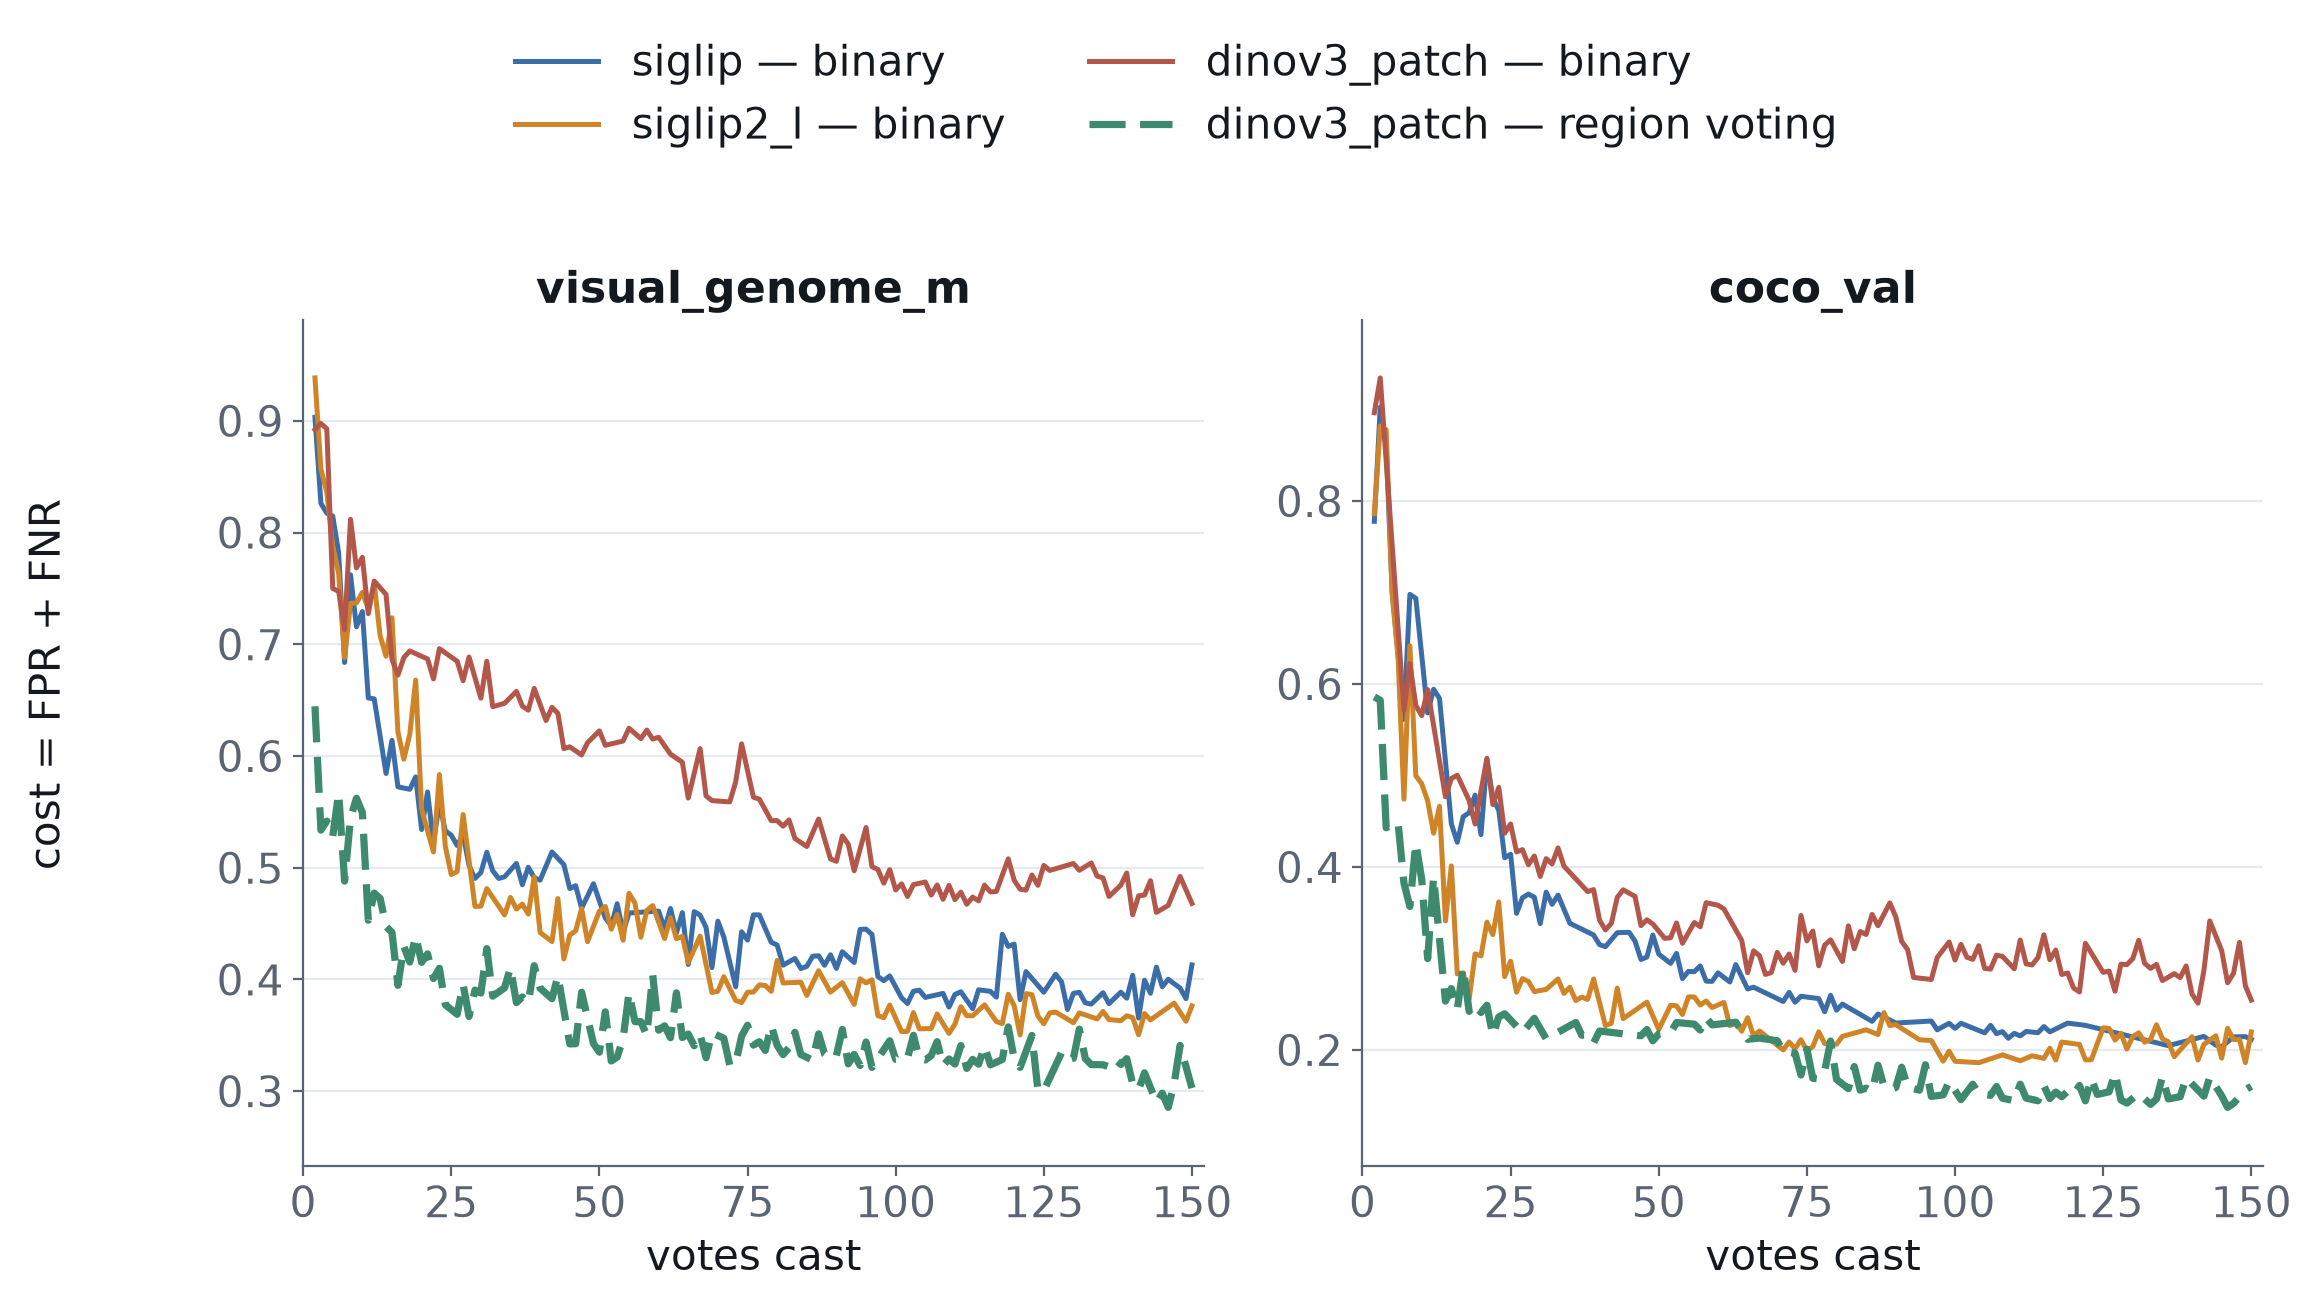
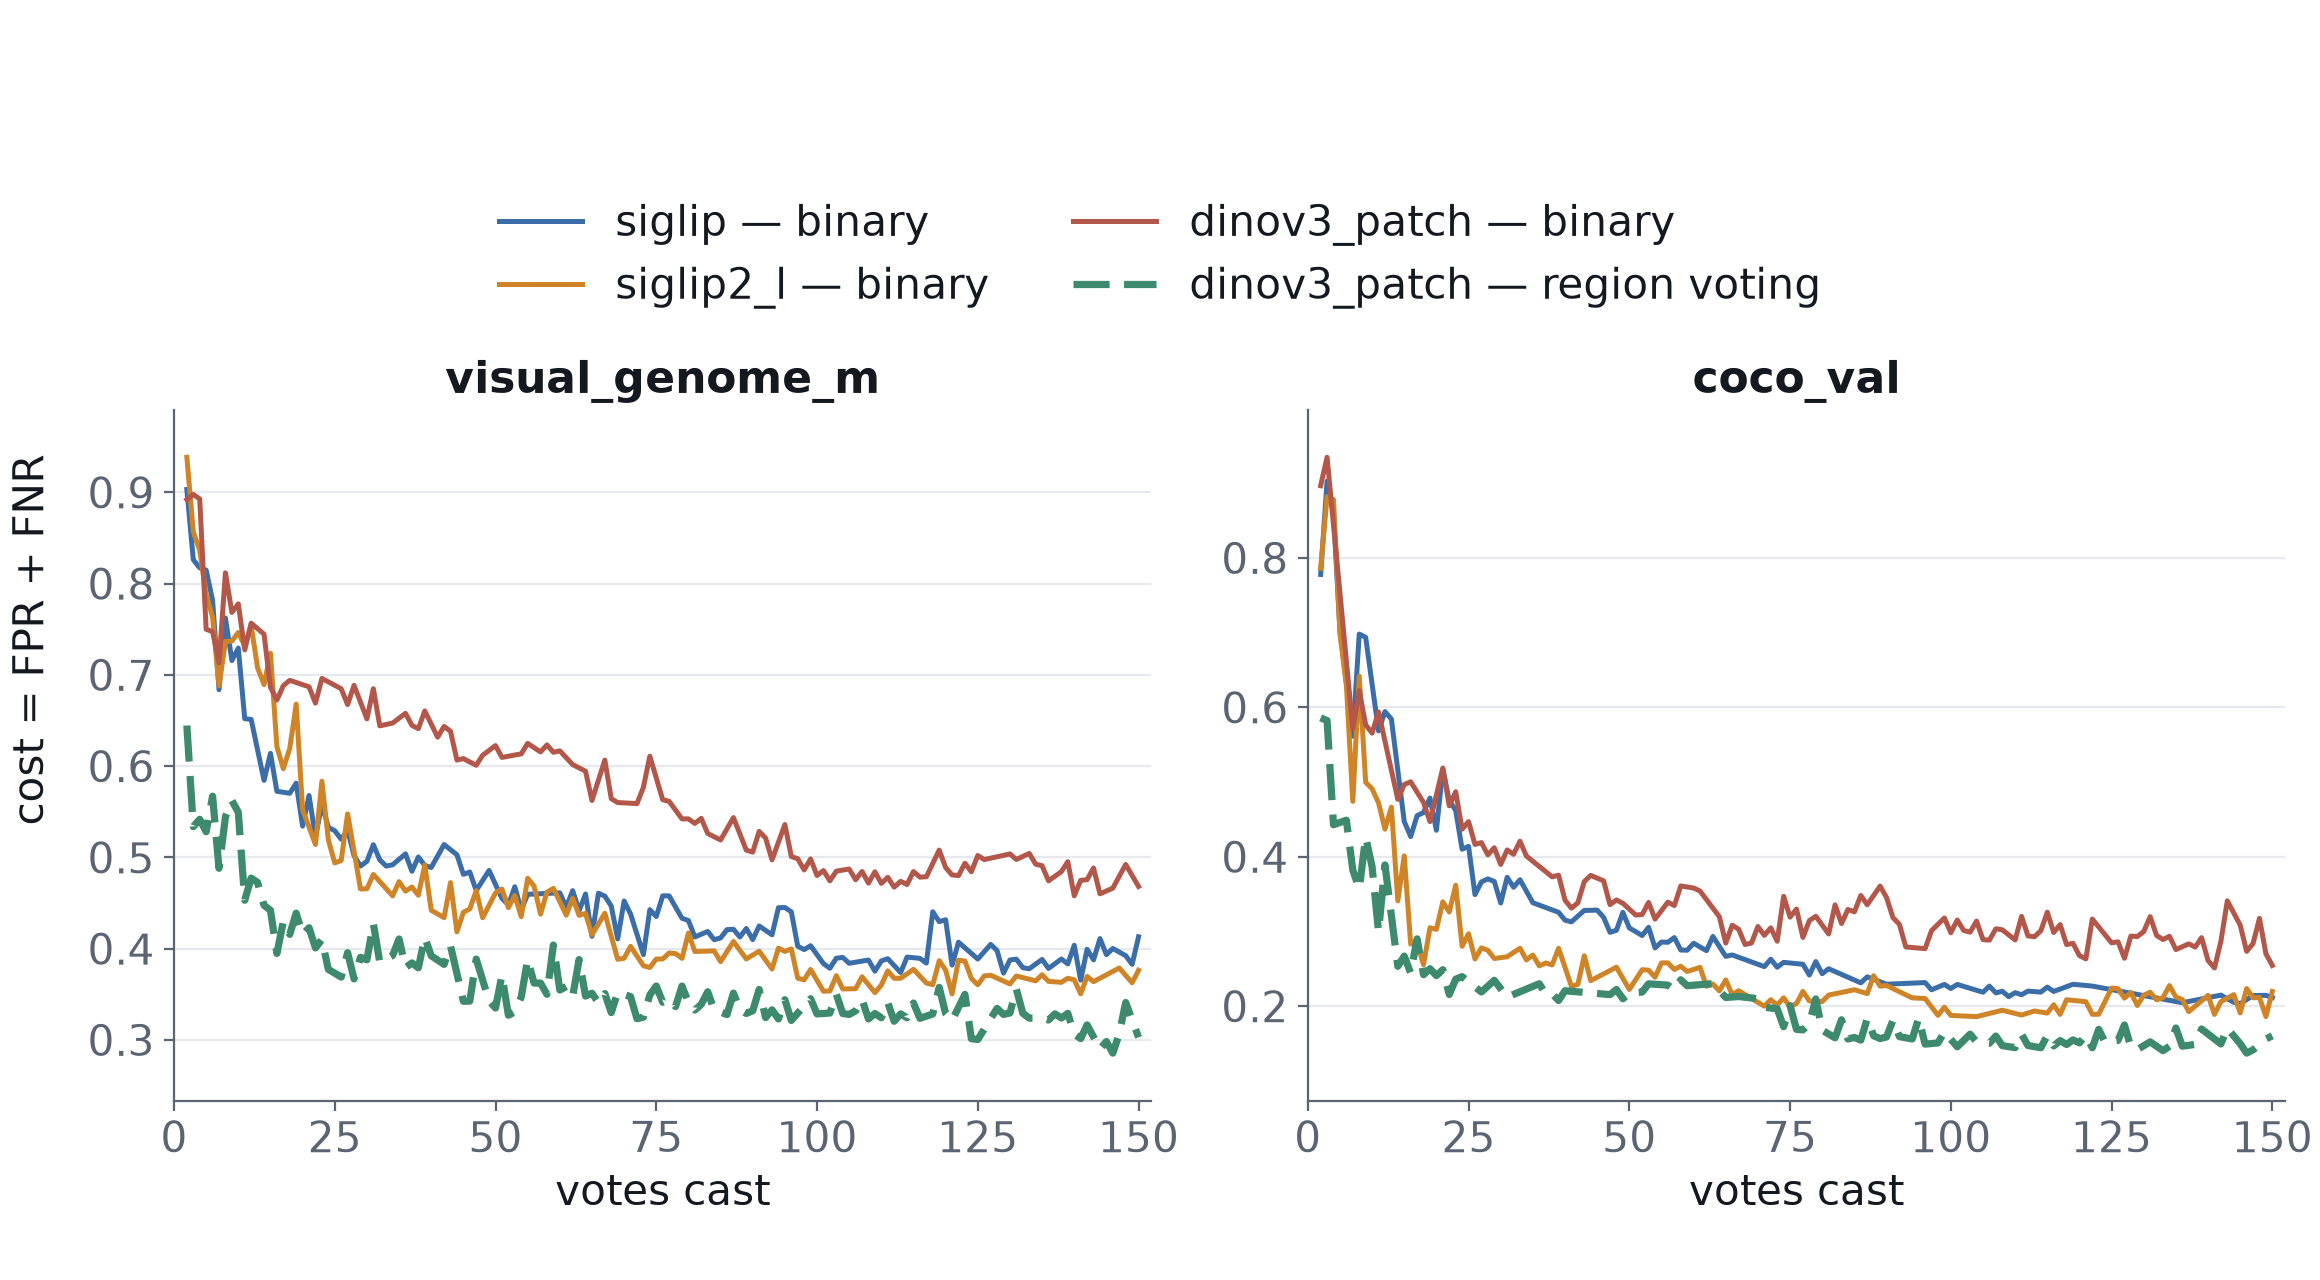
slides: keep the full-bleed figure clear of the slide headline
A `_class: full` slide overlays its own h2 across the top of the image, so
the wide region-voting figure's legend was landing under it. The full-bleed
variant now reserves the top ~15% and saves without a tight bbox, since a
tight crop removes exactly the whitespace the headline needs.

Also teaches deptry that report_svg / slide_figure are sibling modules the
figure scripts import off their own directory, not third-party packages.

Claude-Session: https://claude.ai/code/session_01M28g2V4PKhAACDbacSna4D

diff --git a/slides/figs/src/make-bench-figs.py b/slides/figs/src/make-bench-figs.py
@@ -281,17 +281,20 @@ def region_voting_fig(name: str, *, rows: int, size: tuple[float, float], column
         )
         for _source, key, _label, dash in BOX_SERIES
     ]
-    fig.legend(
-        handles,
-        [label for _source, _key, label, _dash in BOX_SERIES],
-        loc="upper center",
-        ncol=2,
-        frameon=False,
-        bbox_to_anchor=(0.5, 1.03),
-        handlelength=2.0,
-    )
-    fig.tight_layout(rect=(0.03, 0, 1, 0.88 if rows == 2 else 0.86))
-    save(fig, OUT, name, column)
+    labels = [label for _source, _key, label, _dash in BOX_SERIES]
+    if rows == 2:
+        fig.legend(
+            handles, labels, loc="upper center", ncol=2, frameon=False, bbox_to_anchor=(0.5, 1.03), handlelength=2.0
+        )
+        fig.tight_layout(rect=(0.03, 0, 1, 0.88))
+        save(fig, OUT, name, column)
+        return
+
+    # Full-bleed: the slide overlays its own headline across the top of the
+    # image, so the top ~15% is left empty for it and the legend sits under it.
+    fig.legend(handles, labels, loc="upper center", ncol=2, frameon=False, bbox_to_anchor=(0.5, 0.87), handlelength=2.0)
+    fig.subplots_adjust(left=0.075, right=0.985, top=0.68, bottom=0.14, wspace=0.16)
+    save(fig, OUT, name, column, tight=False)
 
 
 def regret_fig() -> None:

diff --git a/slides/figs/src/slide_figure.py b/slides/figs/src/slide_figure.py
@@ -65,8 +65,15 @@ def enforce_type_floor(fig: plt.Figure, column: float = SIDEBAR) -> None:
         )
 
 
-def save(fig: plt.Figure, out: Path, name: str, column: float = SIDEBAR) -> None:
+def save(fig: plt.Figure, out: Path, name: str, column: float = SIDEBAR, *, tight: bool = True) -> None:
+    """Write `fig`, refusing it if any label would miss the type floor.
+
+    `tight=False` keeps the figure's declared bounds instead of cropping to the
+    ink. That matters for a full-bleed slide, where the slide's own headline is
+    overlaid on the top of the image: the reserved whitespace it needs is empty
+    by definition, and a tight bbox would helpfully remove it.
+    """
     enforce_type_floor(fig, column)
-    fig.savefig(out / name, bbox_inches="tight", pad_inches=0.14)
+    fig.savefig(out / name, **({"bbox_inches": "tight", "pad_inches": 0.14} if tight else {}))
     plt.close(fig)
     print(f"wrote figs/{name}")
